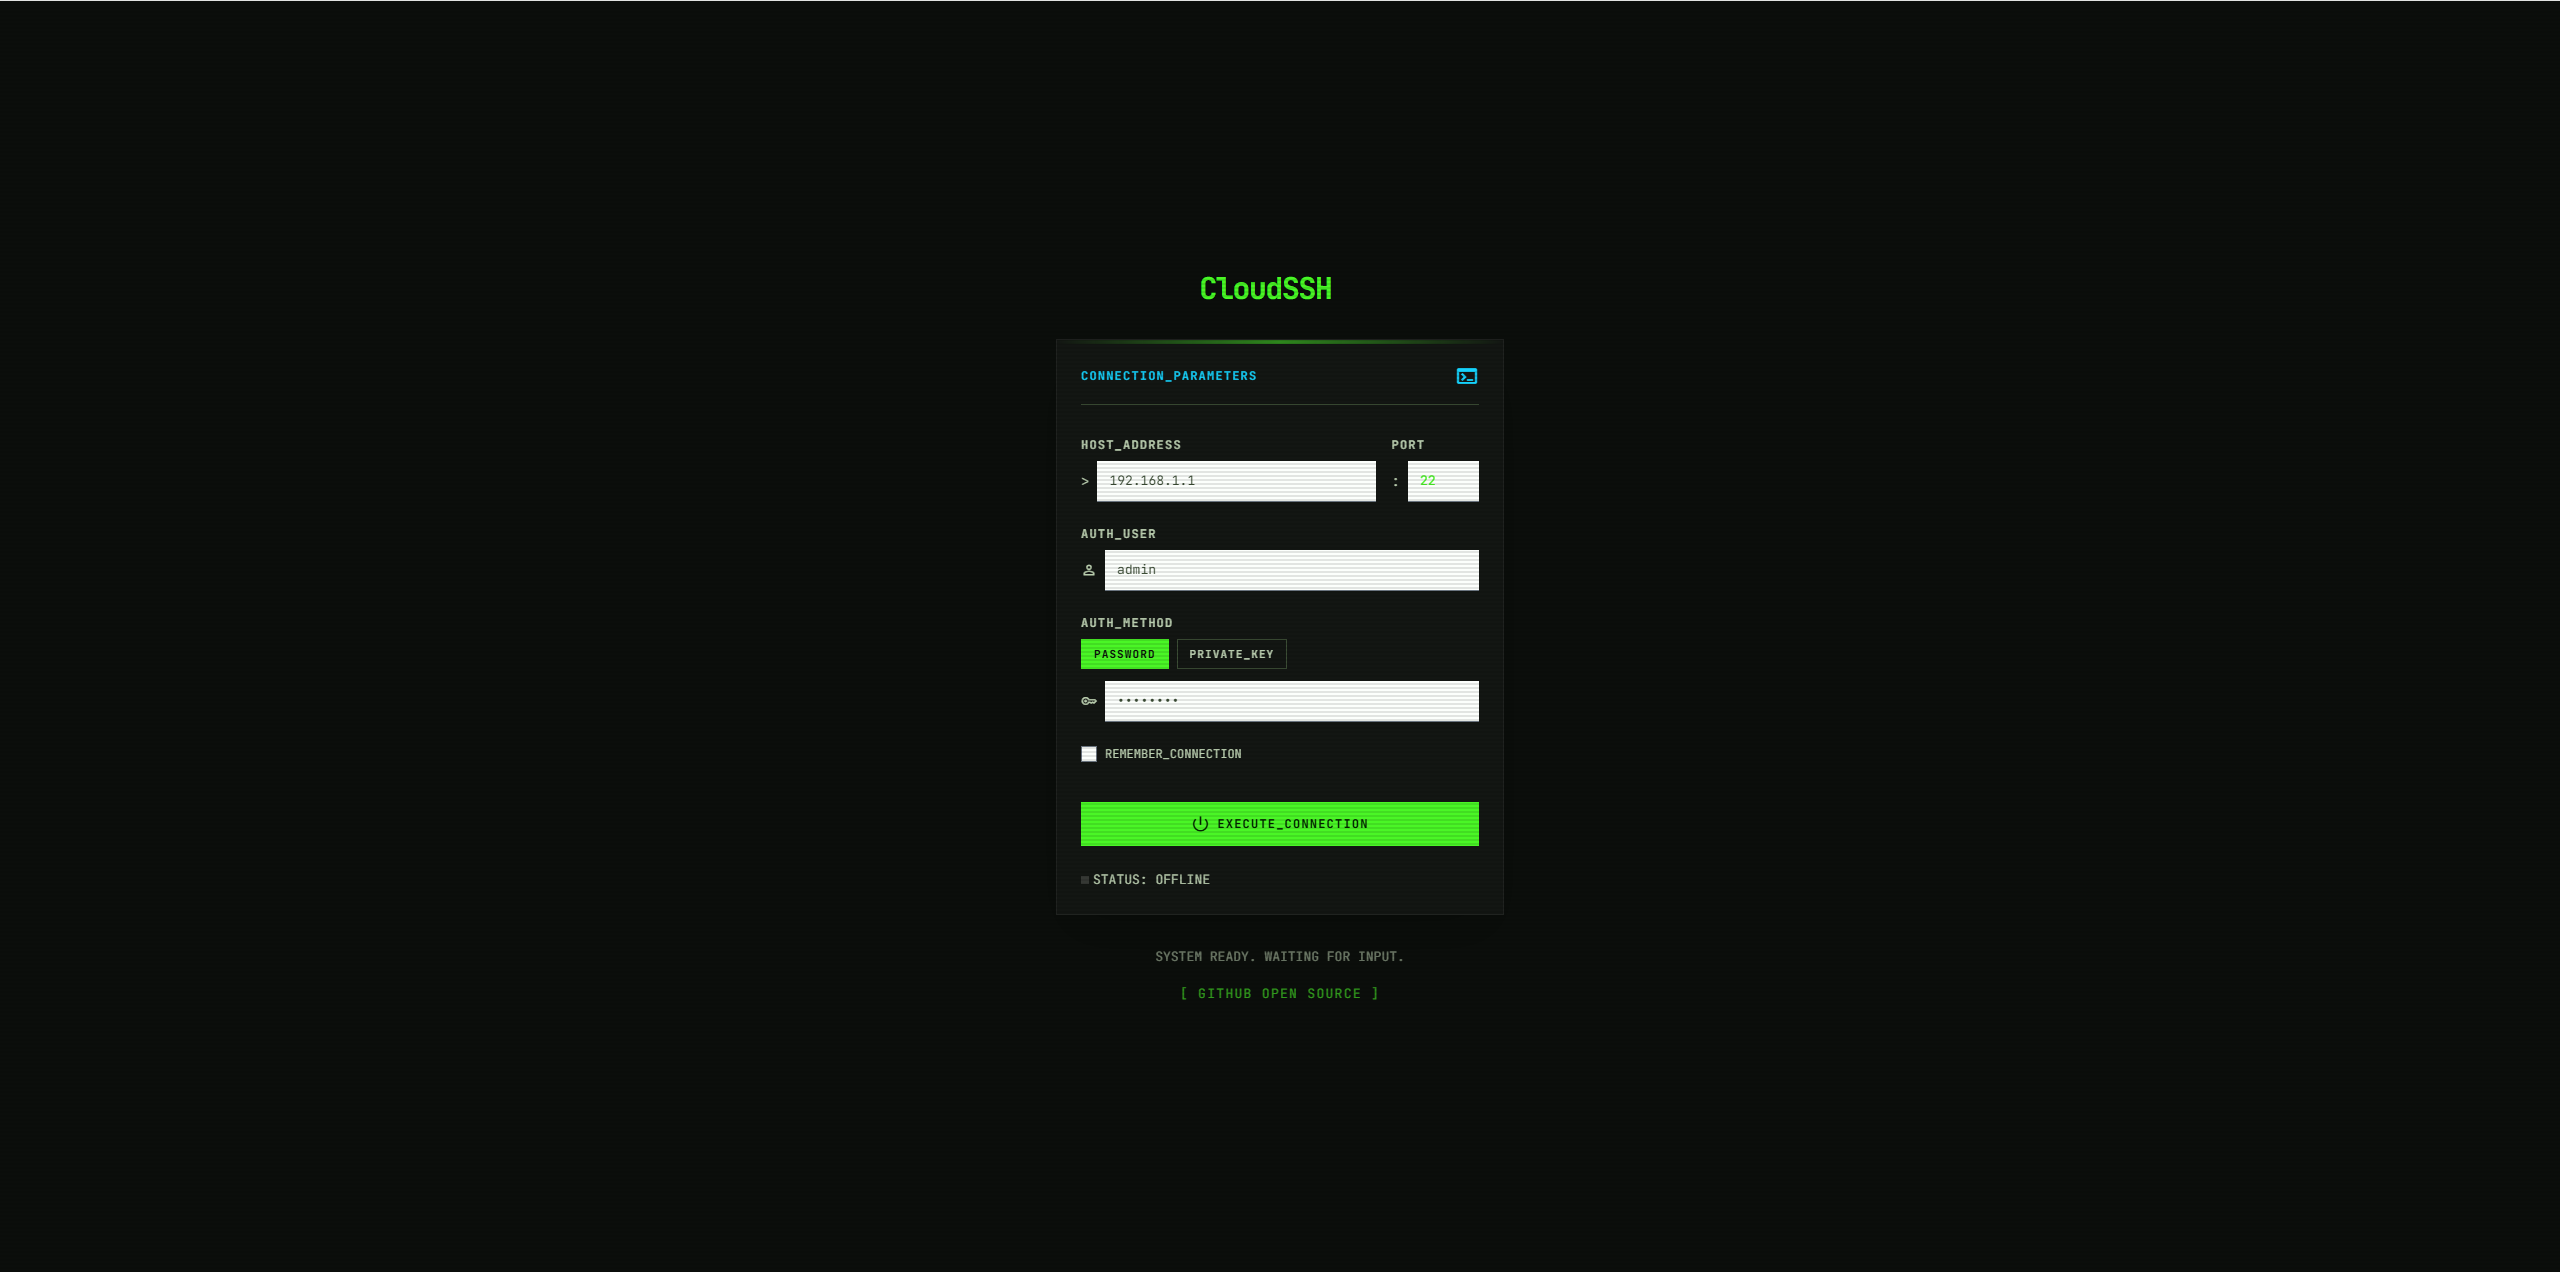
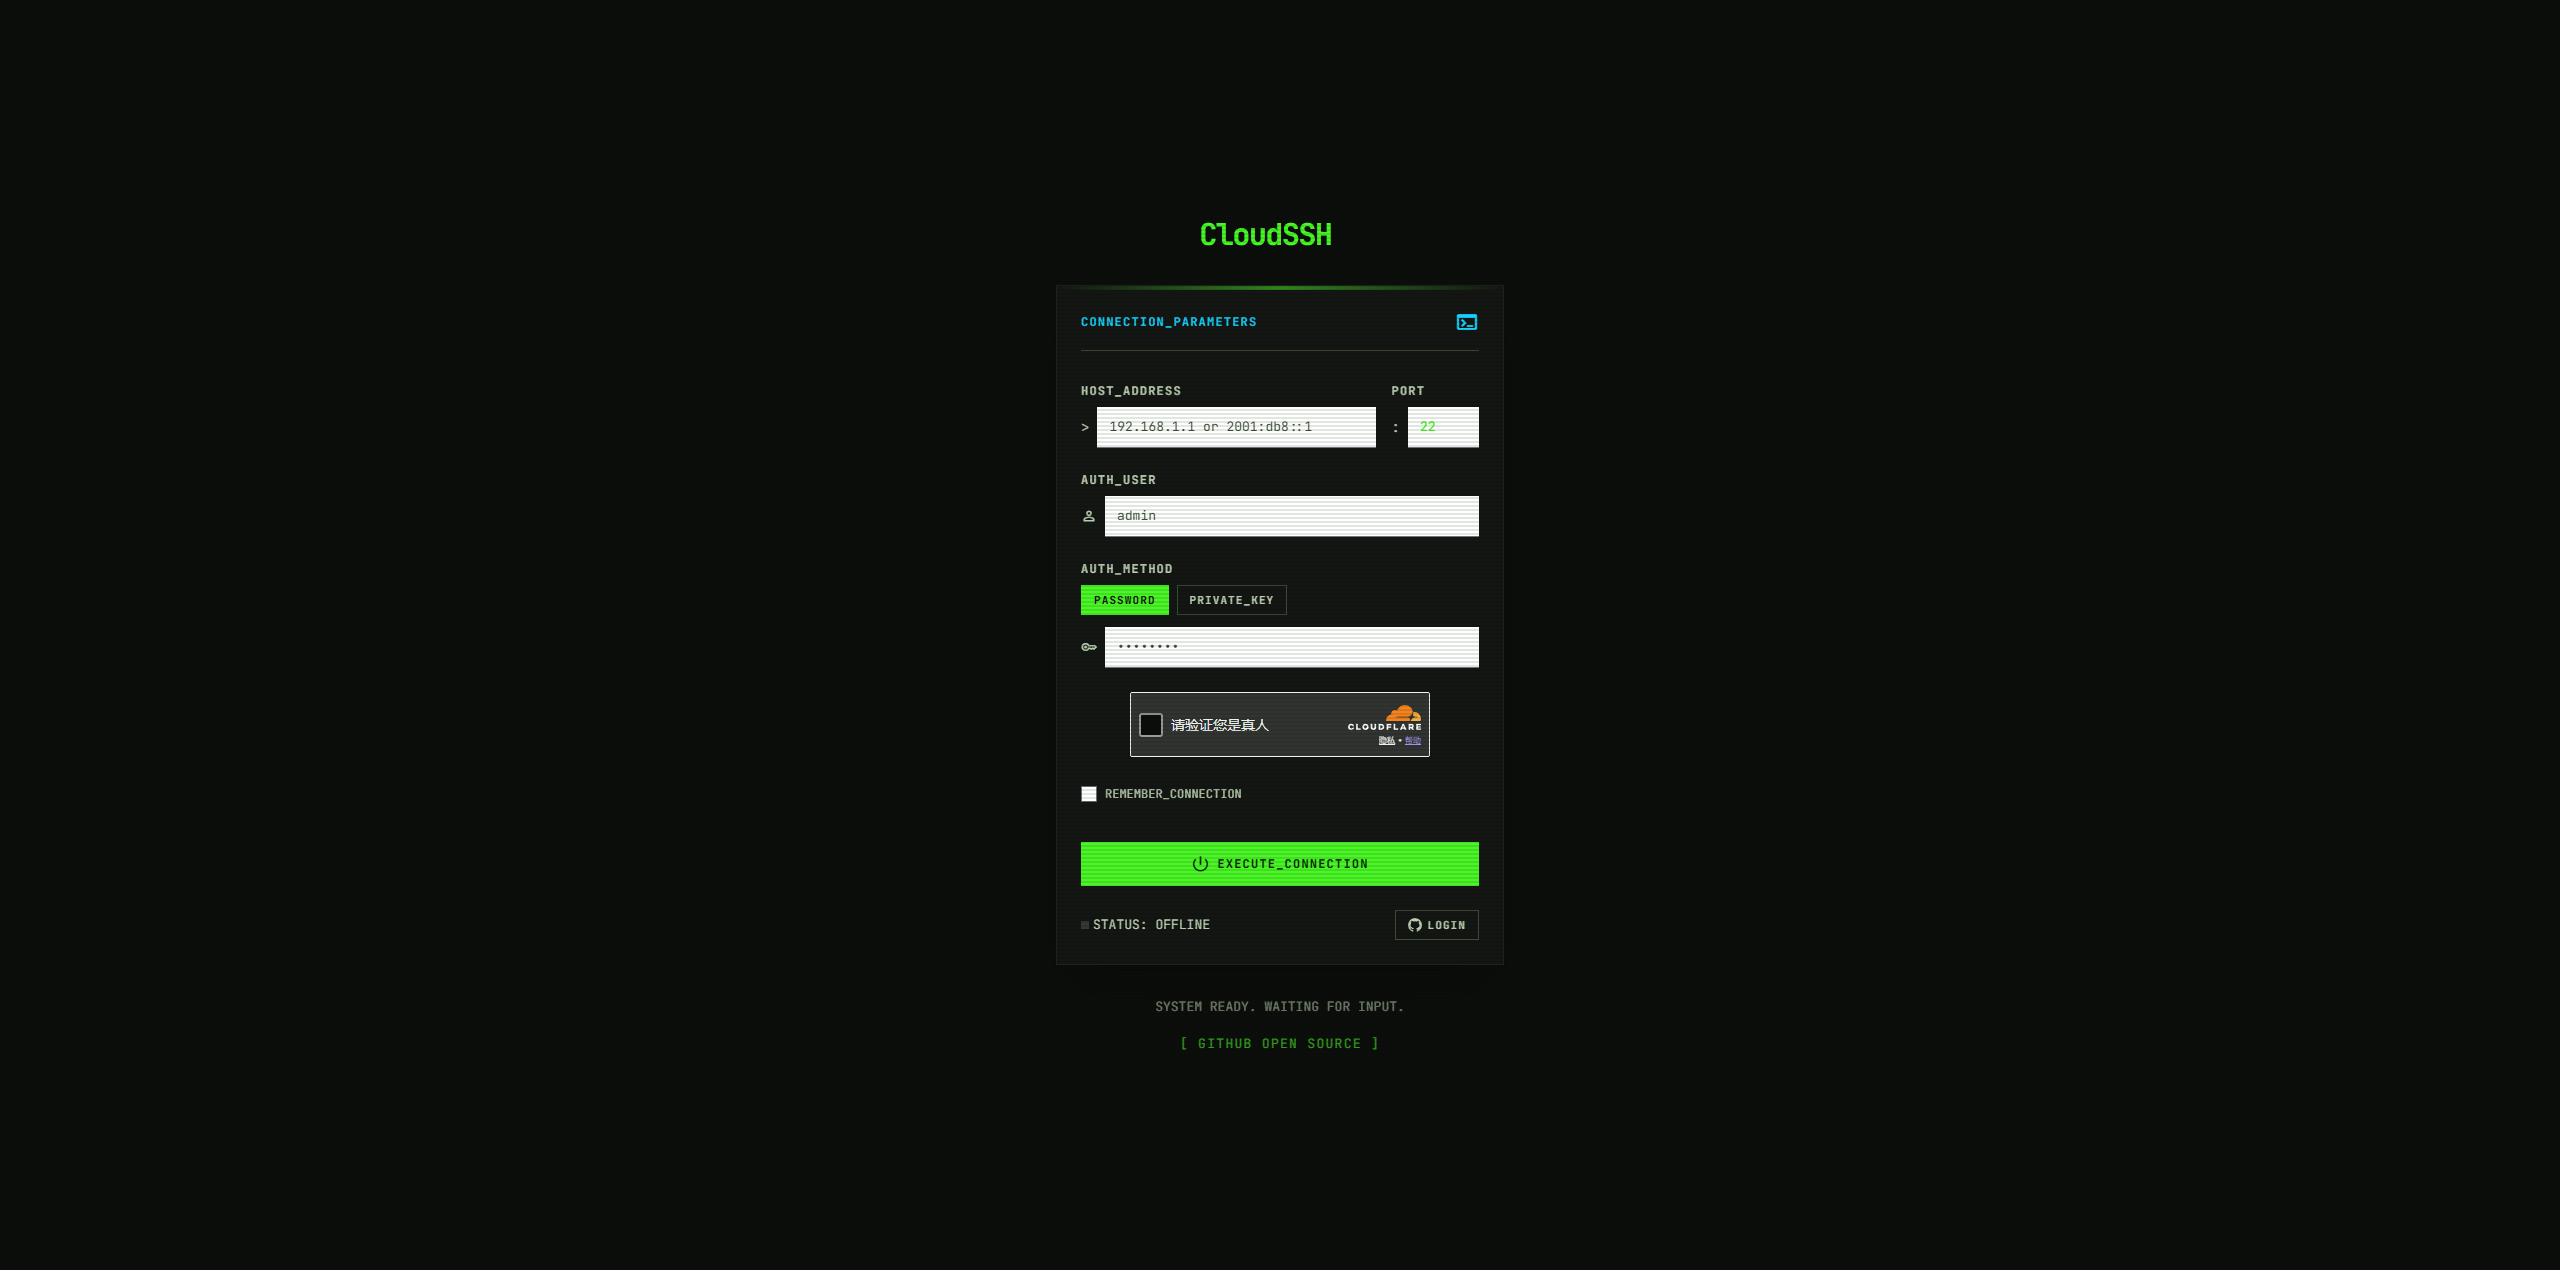
更新README文档，新增演示图片demo3.png

Changed region(s): [[0.4062, 0.1535, 0.5938, 0.737], [0.4688, 0.737, 0.5312, 0.8291]]

diff --git a/README.md b/README.md
@@ -31,6 +31,7 @@
 
 ![Demo 1](./demo1.png)
 ![Demo 2](./demo2.png)
+![Demo 3](./demo3.png)
 
 ## 目录
 
@@ -170,7 +171,7 @@ flowchart TB
 3. **设置 Secrets（敏感密钥）**：
    - 部署项目后，进入 Cloudflare Dashboard → 你的 Worker 项目 (`cloudssh`) → **Settings (设置)** → **Variables and Secrets (变量和机密)**。
    - 点击 **Add (添加)** 环境变量：
-     - **Type (类型)**：选择 **Secret (机密)** ⚠️（非常重要，不要选 Text）
+     - **Type (类型)**：选择 **Secret (机密)**（非常重要，不要选 Text）
      - **变量名**：`GITHUB_CLIENT_SECRET`
      - **值**：粘贴你获取到的 Client Secret
    - 随后点击 **Save and deploy (保存并部署)**。

diff --git a/README_en.md b/README_en.md
@@ -31,6 +31,7 @@
 
 ![Demo 1](./demo1.png)
 ![Demo 2](./demo2.png)
+![Demo 3](./demo3.png)
 
 ## Table of Contents
 
@@ -170,7 +171,7 @@ With GitHub OAuth enabled, users can log in with their GitHub account and save/m
 3. **Set Secrets (Sensitive Information)**:
    - After deploying the project, go to Cloudflare Dashboard → your Worker project (`cloudssh`) → **Settings** → **Variables and Secrets**.
    - Click **Add** under Environment Variables:
-     - **Type**: Select **Secret** ⚠️ (Important: Do not select Text)
+     - **Type**: Select **Secret** (Important: Do not select Text)
      - **Variable name**: `GITHUB_CLIENT_SECRET`
      - **Value**: Paste your Client Secret
    - Click **Save and deploy**.